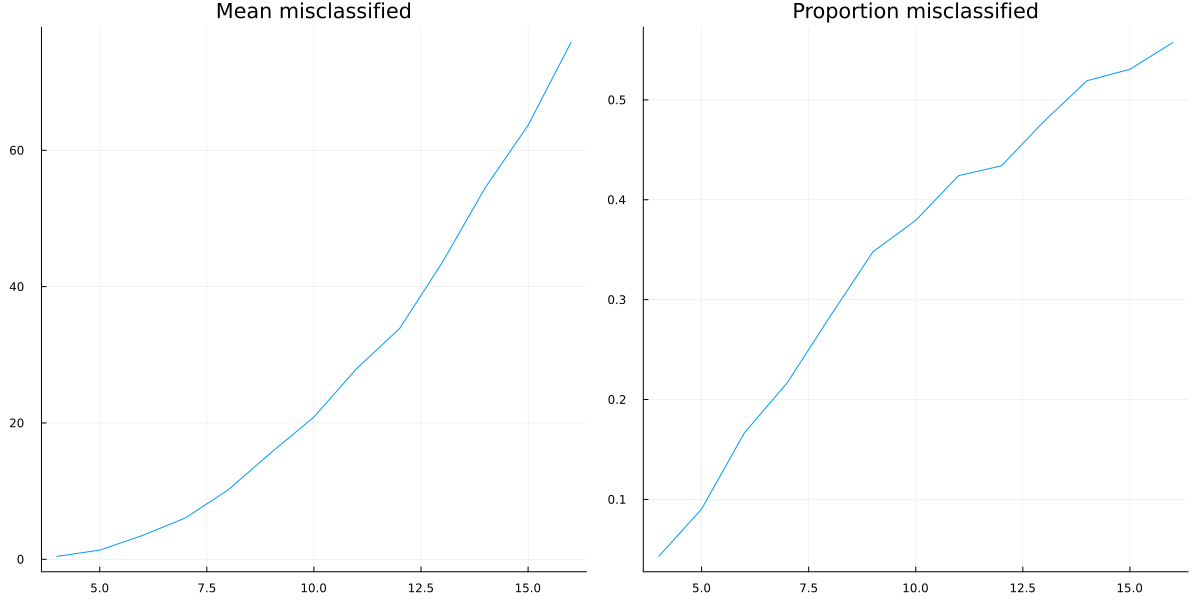
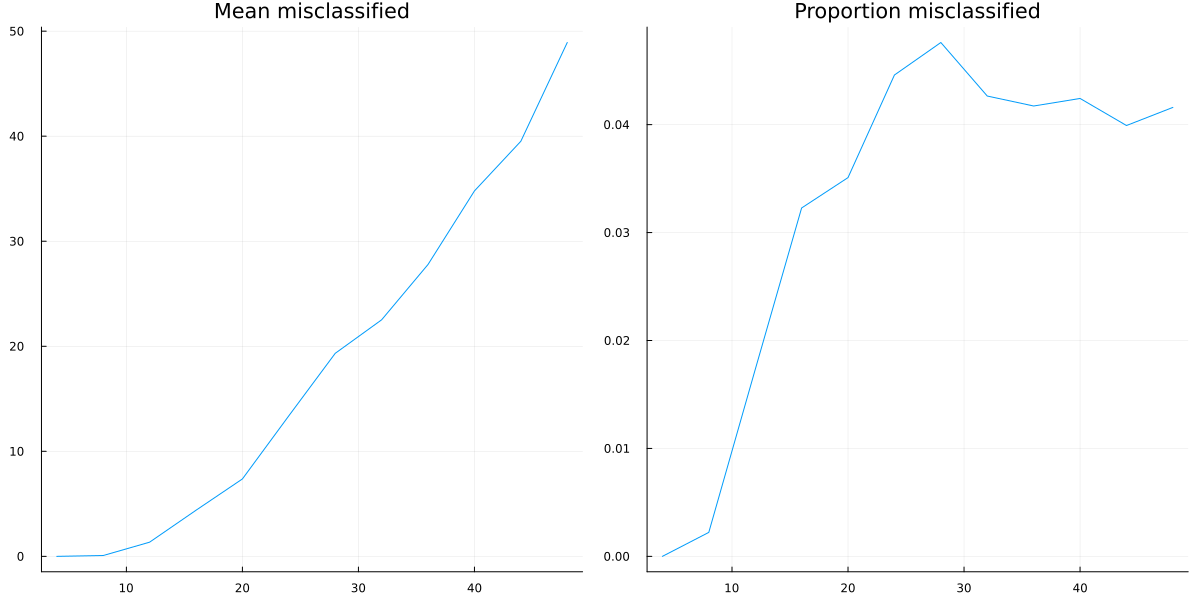
Add.

diff --git a/cause.html b/cause.html
@@ -33,7 +33,7 @@ document.addEventListener('DOMContentLoaded', function () {
 });
 </script>
 </head><body><h2 id="home"><a href="./index.html">home</a></h2>
-<p><em>author: niplav, created: 2022-02-04, modified: 2024-04-06, language: english, status: in progress, importance: 4, confidence: unlikely</em></p>
+<p><em>author: niplav, created: 2022-02-04, modified: 2024-04-15, language: english, status: in progress, importance: 4, confidence: unlikely</em></p>
 <blockquote>
 <p><strong>Absence of correlation almost never implies absence of
 causation<sub><a href="https://fatebook.io/q/in-linear-sems-with-0-1-distributed--clujl9idv0001lc0841gwx9te">55%</a></sub>
@@ -70,8 +70,16 @@ in <a href="https://en.wikipedia.org/wiki/Julia_programming_language">Julia</a>)
 parameters are <a href="https://en.wikipedia.org/wiki/Normal-distribution">normally
 distributed</a> with
 mean 0 and variance 1.</p>
-<pre><code>function generate_random_linear_sem(n::Int, threshold=0.5)
-    g = DiGraph(n)
+<pre><code>struct LinearSEM
+    g::SimpleDiGraph{Int64}
+    coefficients::Dict
+end
+</code></pre>
+<p>We can decide how dense/sparse we want the SEM to be via the <code>threshold</code>
+parameter, the probability that two different nodes have an edge
+between them.</p>
+<pre><code>function random_linear_sem(n::Int, threshold=0.5)
+    g=DiGraph(n)
     for i in 1:n
         for j in (i+1):n
             if rand() &lt; threshold
@@ -79,30 +87,29 @@ mean 0 and variance 1.</p>
             end
         end
     end
-    coefficients = Dict()
+    coefficients=Dict()
     for edge in edges(g)
-        coefficients[edge] = randn()
+        coefficients[edge]=randn()
     end
-    return g, coefficients
+    return LinearSEM(g, coefficients)
 end
 </code></pre>
+<!--TODO: plot one of those graphs-->
 <p>We can then run a bunch of inputs through that model, and compute their
 correlations:</p>
-<pre><code>function correlations(sem::DiGraph, coefficients::Dict, inner_samples::Int)
-    n = size(vertices(sem), 1)
-    input_nodes = [node for node in vertices(sem) if indegree(sem, node) == 0]
-    results = Matrix{Float64}(undef, inner_samples, n) # Preallocate results matrix
+<pre><code>function correlations(sem::LinearSEM, inner_samples::Int)
+    n=size(vertices(sem.g), 1)
+    input_nodes=[node for node in vertices(sem.g) if indegree(sem.g, node) == 0]
+    results=Matrix{Float64}(undef, inner_samples, n) # Preallocate results matrix
     for i in 1:inner_samples
-        input_values = Dict([node =&gt; randn() for node in input_nodes])
-        sem_values=calculate_sem_values(sem, coefficients, input_values)
-        sem_value_row = reshape(collect(values(sort(sem_values))), 1, :)
-        results[i, :] = sem_value_row
+        input_values=Dict([node =&gt; randn() for node in input_nodes])
+        sem_values=calculate_sem_values(sem, input_values)
+        sem_value_row=reshape(collect(values(sort(sem_values))), 1, :)
+        results[i, :]=sem_value_row
     end
-    correlations=cor(results)
-    for i in 1:size(correlations, 1)
-        correlations[i, i] = 0
-    end
-    return abs.(correlations)
+    cor_matrix==cor(results)
+    cor_matrix[diagind(cor_matrix)].=0
+    return abs.(cor_matrix)
 end
 </code></pre>
 <p>We can then check how many correlations are "incorrectly small".</p>
@@ -111,26 +118,35 @@ any causal relationship. The largest of those is the "largest uncaused
 correlation". Correlations between two variables which cause each other
 but are smaller than the largest uncaused correlation are "too small":
 There is a causation but it's not detected.</p>
-<p>We return the amount of those:</p>
+<pre><code>    correlation=correlations(sem, inner_samples)
+    influence=Matrix(Bool.(transpose(adjacency_matrix(transitiveclosure(sem.g)))))
+    not_influence=tril(.!(influence), -1)
+    non_causal_cors=not_influence.*correlation
+    causal_cors=influence.*correlation
+</code></pre>
+<p>This gives us two distributions, the distribution of
+<code>non_causal_correlations</code> and the distribution of <code>causal_correlations</code>,
+e.g.:</p>
+<p><img alt="" src="./img/cause/correlations.png"/></p>
+<p>One may notice that some variables that are not causing each other still
+have high correlations with each other, this is because they have a
+common cause. So we have to decide <em>what it means</em> for a correlation
+to be too small to be relevant.</p>
 <!--TODO: we filter here after the *mean* of noncausal correlations,
 previsouly after the maximum. What's the right way? Technically,
 there's two distributions of correlation values, so we gotta find a
 cutoff point
 Example of 1⇒3 and 2⇒3 edges, 1 & 2 have strong non-causal
 correlation-->
-<pre><code>function misclassifications(sem::DiGraph, coefficients::Dict, inner_samples::Int)
-    correlations=correlation_in_sem(sem, coefficients, inner_samples)
-    influence=Matrix(Bool.(transpose(adjacency_matrix(transitiveclosure(sem)))))
-    not_influence=tril(.!(influence), -1)
-    non_causal_correlations=not_influence.*correlations
-    causal_correlations=influence.*correlations
+<pre><code>function misclassifications(sem::LinearSEM, inner_samples::Int)
     return sum((causal_correlations .!= 0) .&amp; (causal_correlations .&lt; mean(non_causal_correlations)))
 end
 </code></pre>
 <p>And, in the outermost loop, we compute the number of misclassifications
-for a number of linear SEMs:</p>
+for a number of linear SEMs (with a threshold of 0.25, since 0.5 usually
+produces SEMs which are too dense):</p>
 <pre><code>function misclassified_absence_mc(n::Int, outer_samples::Int, inner_samples::Int)
-    return [misclassifications(generate_random_linear_sem(n)..., inner_samples) for i in 2:outer_samples]
+    return [misclassifications(random_linear_sem(n, 0.25), inner_samples) for i in 1:outer_samples]
 end
 </code></pre>
 <p>So we collect a bunch of samples. SEMs with one, two and three variables
@@ -169,9 +185,9 @@ anybody</a>—if
 that's not sufficient, I don't know what is.</p>
 <p>But let's better go and write some code to check:</p>
 <pre><code>more_samples=Dict{Int, Array{Int, 1}}()
-samples_test_size=12
-sem_samples=100
-inputs_samples=2 .^(6:17)
+samples_test_size=20
+sem_samples=500
+inputs_samples=2 .^(6:16)
 for inputs_sample in inputs_samples
     println(inputs_sample)
     more_samples[inputs_sample]=misclassified_absence_mc(samples_test_size, sem_samples, inputs_sample)

diff --git a/texts_list.html b/texts_list.html
@@ -33,7 +33,7 @@ document.addEventListener('DOMContentLoaded', function () {
 });
 </script>
 </head><body><h2 id="home"><a href="./index.html">home</a></h2>
-<p><em>author: niplav, created: 2020-06-25, modified: 2024-07-13, language: english, status: in progress, importance: 1, confidence: log</em></p>
+<p><em>author: niplav, created: 2020-06-25, modified: 2024-07-14, language: english, status: in progress, importance: 1, confidence: log</em></p>
 <blockquote>
 <p><strong>Texts I have read since May 2017.</strong></p>
 </blockquote>
@@ -46,6 +46,14 @@ comments or tweets, because that would be too extensive.</p>
 <p>A '*' prefix signifies I'm still reading the
 text, a '|123' prefix shows I abandoned reading the text at page 123.</p>
 <ul>
+<li><a href="http://catern.com/mobilelibs.html">For fast protocols, be backwards-compatible in the client, not on the wire (Spencer Baugh, 2024)</a></li>
+<li><a href="http://catern.com/supervisors.html">Beyond process supervisors (Spencer Baugh, 2024)</a></li>
+<li><a href="http://catern.com/compdist.html">Your computer is a distributed system (Spencer Baugh, 2024)</a></li>
+<li><a href="http://catern.com/usertests.html">Your users are a test suite, you should run them (Spencer Baugh, 2024)</a></li>
+<li><a href="http://catern.com/run.html">You need to be able to run your system (Spencer Baugh, 2024)</a></li>
+<li><a href="http://catern.com/progsys.html">Deploying a distributed system? A type system helps a lot (Spencer Baugh, 2021)</a></li>
+<li><a href="https://mtlynch.io/notes/guis-are-antisocial/">GUIs are Antisocial (Michael Lynch, 2024)</a></li>
+<li><a href="https://www.reuters.com/technology/artificial-intelligence/openai-working-new-reasoning-technology-under-code-name-strawberry-2024-07-12/">Exclusive: OpenAI working on new reasoning technology under code name ‘Strawberry’ (Anna Tong/Katie Paul, 2024)</a></li>
 <li><a href="https://www.anthropic.com/research/probes-catch-sleeper-agents">Simple probes can catch sleeper agents (Monte MacDiarmid/Tim Maxwell/Nicholas Schiefer/Jesse Mu/Jared Kaplan/David Duvenaud/Sam Bowman/Alex Tamkin/Ethan Perez/Mrinank Sharma/Carson Denison/Evan Hubinger, 2024)</a></li>
 <li><a href="https://www.pivotpointsecurity.com/risk-tolerance-in-business/">Risk Tolerance: To Avoid, Transfer, Mitigate or Accept—That Is The Question! (John Verry, 2024)</a></li>
 <li><a href="https://www.scrut.io/post/risk-management-techniques">Risk management techniques: avoid, mitigate, transfer, or accept (Scrut Automation, 2024)</a></li>

diff --git a/notes.html b/notes.html
@@ -1332,6 +1332,7 @@ first-order effects are rarely outweighed by <a href="https://en.wikipedia.org/w
 <li><a href="https://en.wikipedia.org/wiki/Wirth's_law">Wirth's law</a></li>
 <li><a href="https://en.wikipedia.org/wiki/Peter_principle">Peter principle</a></li>
 <li><a href="https://en.wikipedia.org/wiki/Streisand_Effect">Streisand effect</a></li>
+<li>The <a href="https://en.wikipedia.org/wiki/Risk_compensation#Peltzman_effect">Peltzman effect</a></li>
 </ul>
 <p>Actually, which is "more true": Zeyneps razor or the
 counter-examples? Perhaps one could pick 10 past interventions/cheapenings

diff --git a/microfiction.html b/microfiction.html
@@ -101,6 +101,7 @@ demjenigen, der sie versteht.</p>
 <li>"hanebüchen"</li>
 <li>"Verdauungsspaziergang"</li>
 <li>"<a href="https://en.wikipedia.org/wiki/Erbfeindschaft">Erbfeindschaft</a>"</li>
+<li>"Blockwart"</li>
 </ul></li>
 </ul>
 <h2 id="Poems"><a class="hanchor" href="#Poems">Poems</a></h2>

diff --git a/code/diamond/ndim_diamond_square.py b/code/diamond/ndim_diamond_square.py
@@ -1,4 +1,5 @@
 import random
+import itertools
 import numpy as np
 
 def create_space(dim, size, minval, maxval, factor):
@@ -6,21 +7,14 @@ def create_space(dim, size, minval, maxval, factor):
 	n-dimensional diamond square algorithm."""
 
 	space=np.zeros([size]*dim)
-	cornerspos=get_cornerspos(dim)
-	corners=np.array([(i*(size-1)) for i in get_cornerspos(dim)])
-
-	for c in corners:
-		val=random.randint(minval, maxval)
-		space[tuple(c)]=random.randint(minval, maxval)
-
-	return fill_space(space, dim, size, minval, maxval, factor)
-
-def fill_space(space, dim, size, minval, maxval, factor):
-	"""Fill a dim-dimensional discrete space of ℕ^{size} with
-	some random hyperplane with values ranging from minval to
-	maxval. Returns a ℕ^{size} array. Changes space in-place."""
+	corners=(size-1)*get_cornerspos(dim)
+	space[*(corners.T)]=np.random.randint(minval, maxval, size=len(corners))
 
 	offsets=[np.array([0]*dim)]
+
+	"""Fill a dim-dimensional discrete space of ℕ^{size} with
+	some random landscape with values ranging from minval to
+	maxval. Returns a ℕ^{size} array."""
 	return ndim_diamond_square_rec(space, dim, size, offsets, minval, maxval, factor)
 
 def ndim_diamond_square_rec (space, dim, size, offsets, minval, maxval, factor):
@@ -30,29 +24,19 @@ def ndim_diamond_square_rec (space, dim, size, offsets, minval, maxval, factor):
 	nsize=size//2
 
 	for o in offsets:
-		center=np.array([nsize]*dim)
-		center=o+center
+		center=o+np.array([nsize]*dim)
+		b=int(size==len(space))
 
-		if size==len(space):
-			b=1
-		else:
-			b=0
-
-		cornerspos=get_cornerspos(dim)
-		corners=np.array([(i*(size-b))+o for i in cornerspos])
-
+		corners=get_cornerspos(dim)*(size-b)+o
 		cornersum=0
 
-		for corner in corners:
-			cornersum=cornersum+space[tuple(corner)]
-
+		cornersum=np.sum(space[*(corners.T)])
 		val=(cornersum/len(corners))+(random.randint(minval, maxval)-((maxval-minval)//2))
 
 		space[tuple(center)]=val
 
 	for o in offsets:
-		center=np.array([nsize]*dim)
-		center=o+center
+		center=o+np.array([nsize]*dim)
 		# Recursive square step here (dim times)
 		explored=np.array([False]*dim)
 
@@ -68,7 +52,6 @@ def ndim_diamond_square_rec (space, dim, size, offsets, minval, maxval, factor):
 
 	noffsets=[]
 
-	# Recursive square step
 	for pos in get_cornerspos(dim):
 		noffsets=noffsets+[(pos*nsize)+offset for offset in offsets]
 
@@ -120,9 +103,4 @@ def square_rec(space, dim, size, center, explored, minval, maxval, factor):
 			explored[i]=False
 
 def get_cornerspos(dim):
-	cornerspos=[('{0:0'+str(dim)+'b}').format(i) for i in range(2**dim)]
-	cornerspos=[list(i) for i in cornerspos]
-	cornerspos=list(map((lambda x: list(map(int, x))), cornerspos))
-	cornerspos=np.array(cornerspos)
-
-	return cornerspos
+	return np.array(list(itertools.product([0, 1], repeat=dim)))

diff --git a/code/diamond/threedim.py b/code/diamond/threedim.py
@@ -11,16 +11,16 @@ exec(open("ndim_diamond_square.py").read())
 
 size=9
 minval=0
-maxval=255
+maxval=127
 
-space=create_space(3, size, minval, maxval, 0.5)
+space=create_space(3, size, minval, maxval, 1.0)
 
 def randrange(n, vmin, vmax):
 	return (vmax-vmin)*np.random.rand(n) + vmin
 
-fig = plt.figure()
-
-ax = fig.gca(projection='3d')
+fig = plt.figure(figsize=(10, 10))
+ax = fig.add_subplot(projection='3d')
+ax.view_init(elev=25, azim=60, roll=0)
 
 xs=np.array((size*size)*list(range(0,size)))
 
@@ -39,13 +39,13 @@ fs=np.zeros([size**3])
 for i in range(0, size**3):
 	fs[i]=space[xs[i],ys[i],zs[i]]
 
-colors = cm.hsv(fs/max(fs))
+colors = cm.plasma(fs/max(fs))
 
-colmap = cm.ScalarMappable(cmap=cm.hsv)
+colmap = cm.ScalarMappable(cmap=cm.plasma)
 colmap.set_array(fs)
 
 yg = ax.scatter(xs, ys, zs, c=colors, marker='.')
-cb = fig.colorbar(colmap)
+cb = fig.colorbar(colmap, shrink=0.5)
 
 ax.set_xlabel('X Label')
 ax.set_ylabel('Y Label')

diff --git a/code/diamond/twodim.py b/code/diamond/twodim.py
@@ -15,7 +15,7 @@ maxval=255
 space=create_space(2, size, minval, maxval, 0.5)
 
 fig=plt.figure()
-ax=fig.gca(projection='3d')
+ax = fig.add_subplot(projection='3d')
 
 X=np.arange(0, size, 1)
 Y=np.arange(0, size, 1)
